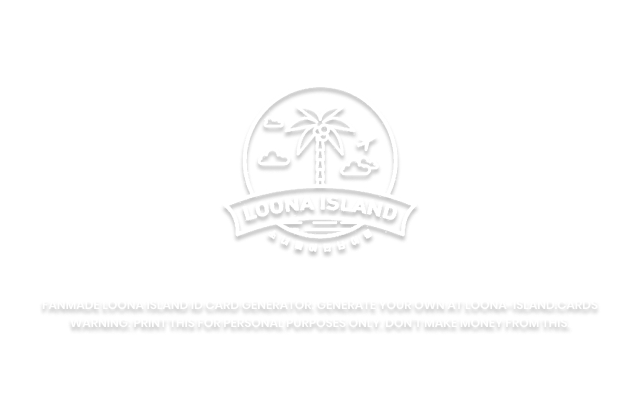
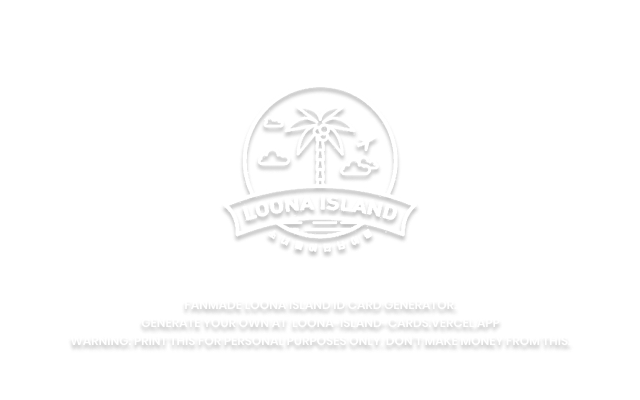
Modify README and Back Card img

diff --git a/README.md b/README.md
@@ -1,1 +1,16 @@
-# loona-island-district-id
+# [Loona Island ID Card Generator](https://loona-island-cards.vercel.app/)
+
+#### 🌙 Fanmade Loona Island ID Card Generator
+
+-   🛠 Built with HTML, SCSS, and Javascript
+-   👨💻 Made with 💖 [Candice Ballarta](https://github.com/candicejoyballarta)
+
+#### 🎨 Design
+
+Logos used are based on the original assets, respective to original copyright holders. Fonts used: [Poppins](https://fonts.google.com/specimen/Poppins), [Serial Regular](https://www.fonts.com/font/typeheist/serial/regular), [Market Deco](https://www.dafont.com/market-deco.font), and [Athena](https://www.dafont.com/athena.font)
+
+#### 🔒 Credit
+
+LOOΠΔ logos and artwork © BlockBerry Creative and 101X. Card design/layout inspired on [TWICE Scientist ID Card Generator](https://github.com/salazarjoshua/scientist.cards) and [Orbit Card Generator](https://github.com/idaluisonyeo/orbit-card). For entertainment purposes only, no infringement intended.
+
+**_`STAN LOONA`_**
